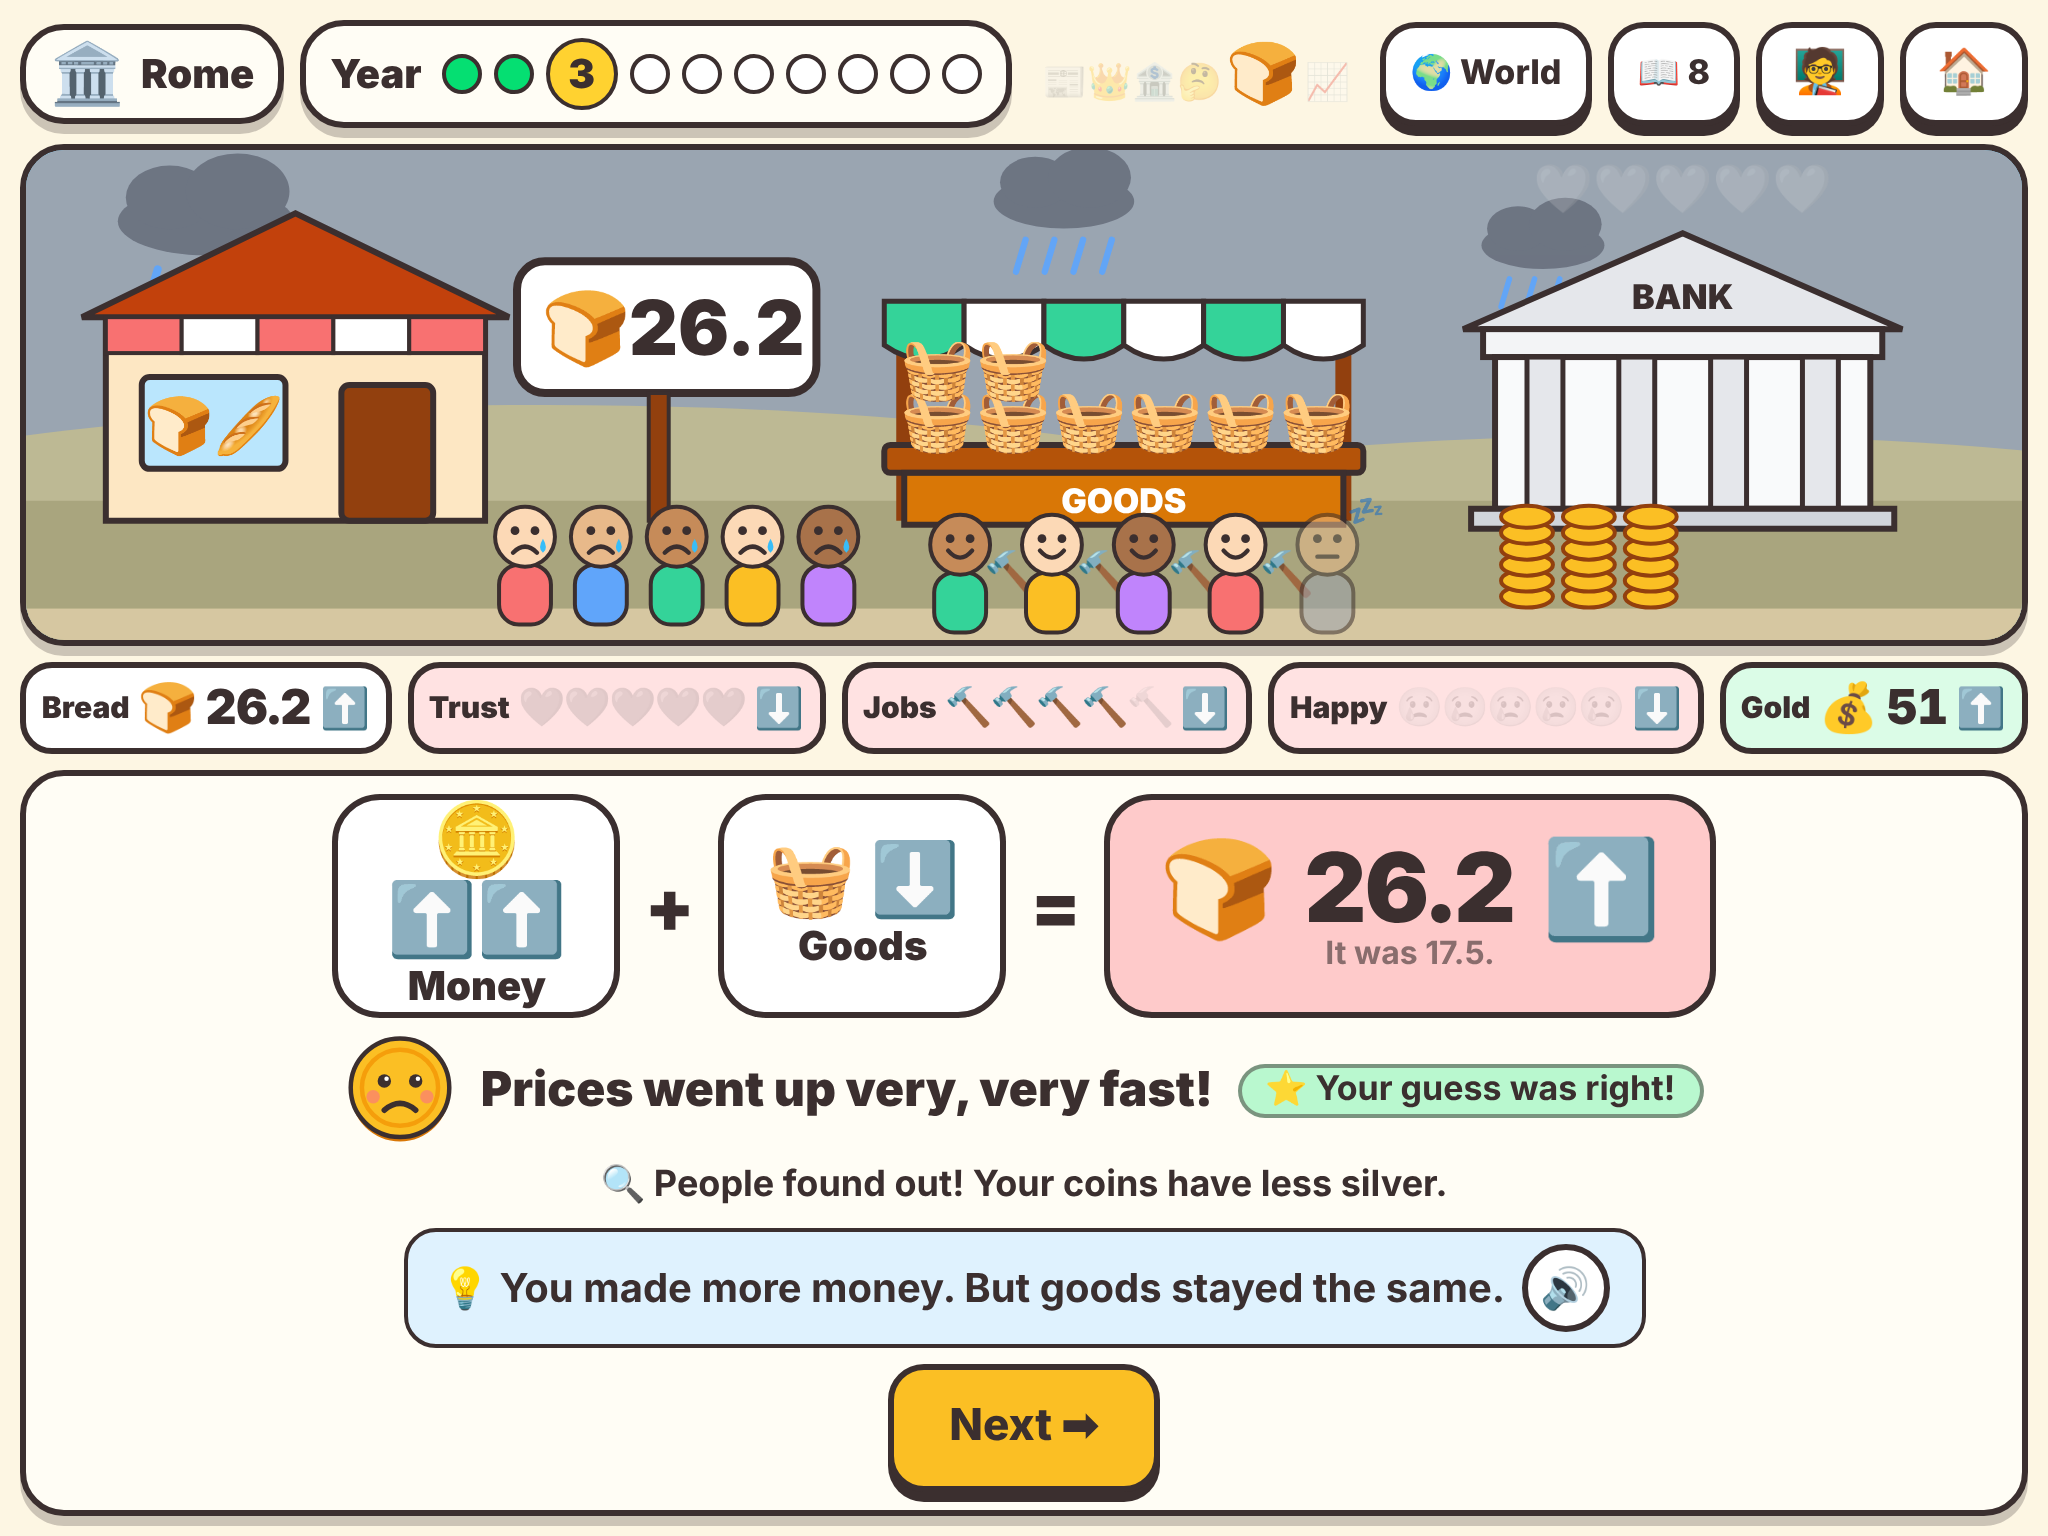
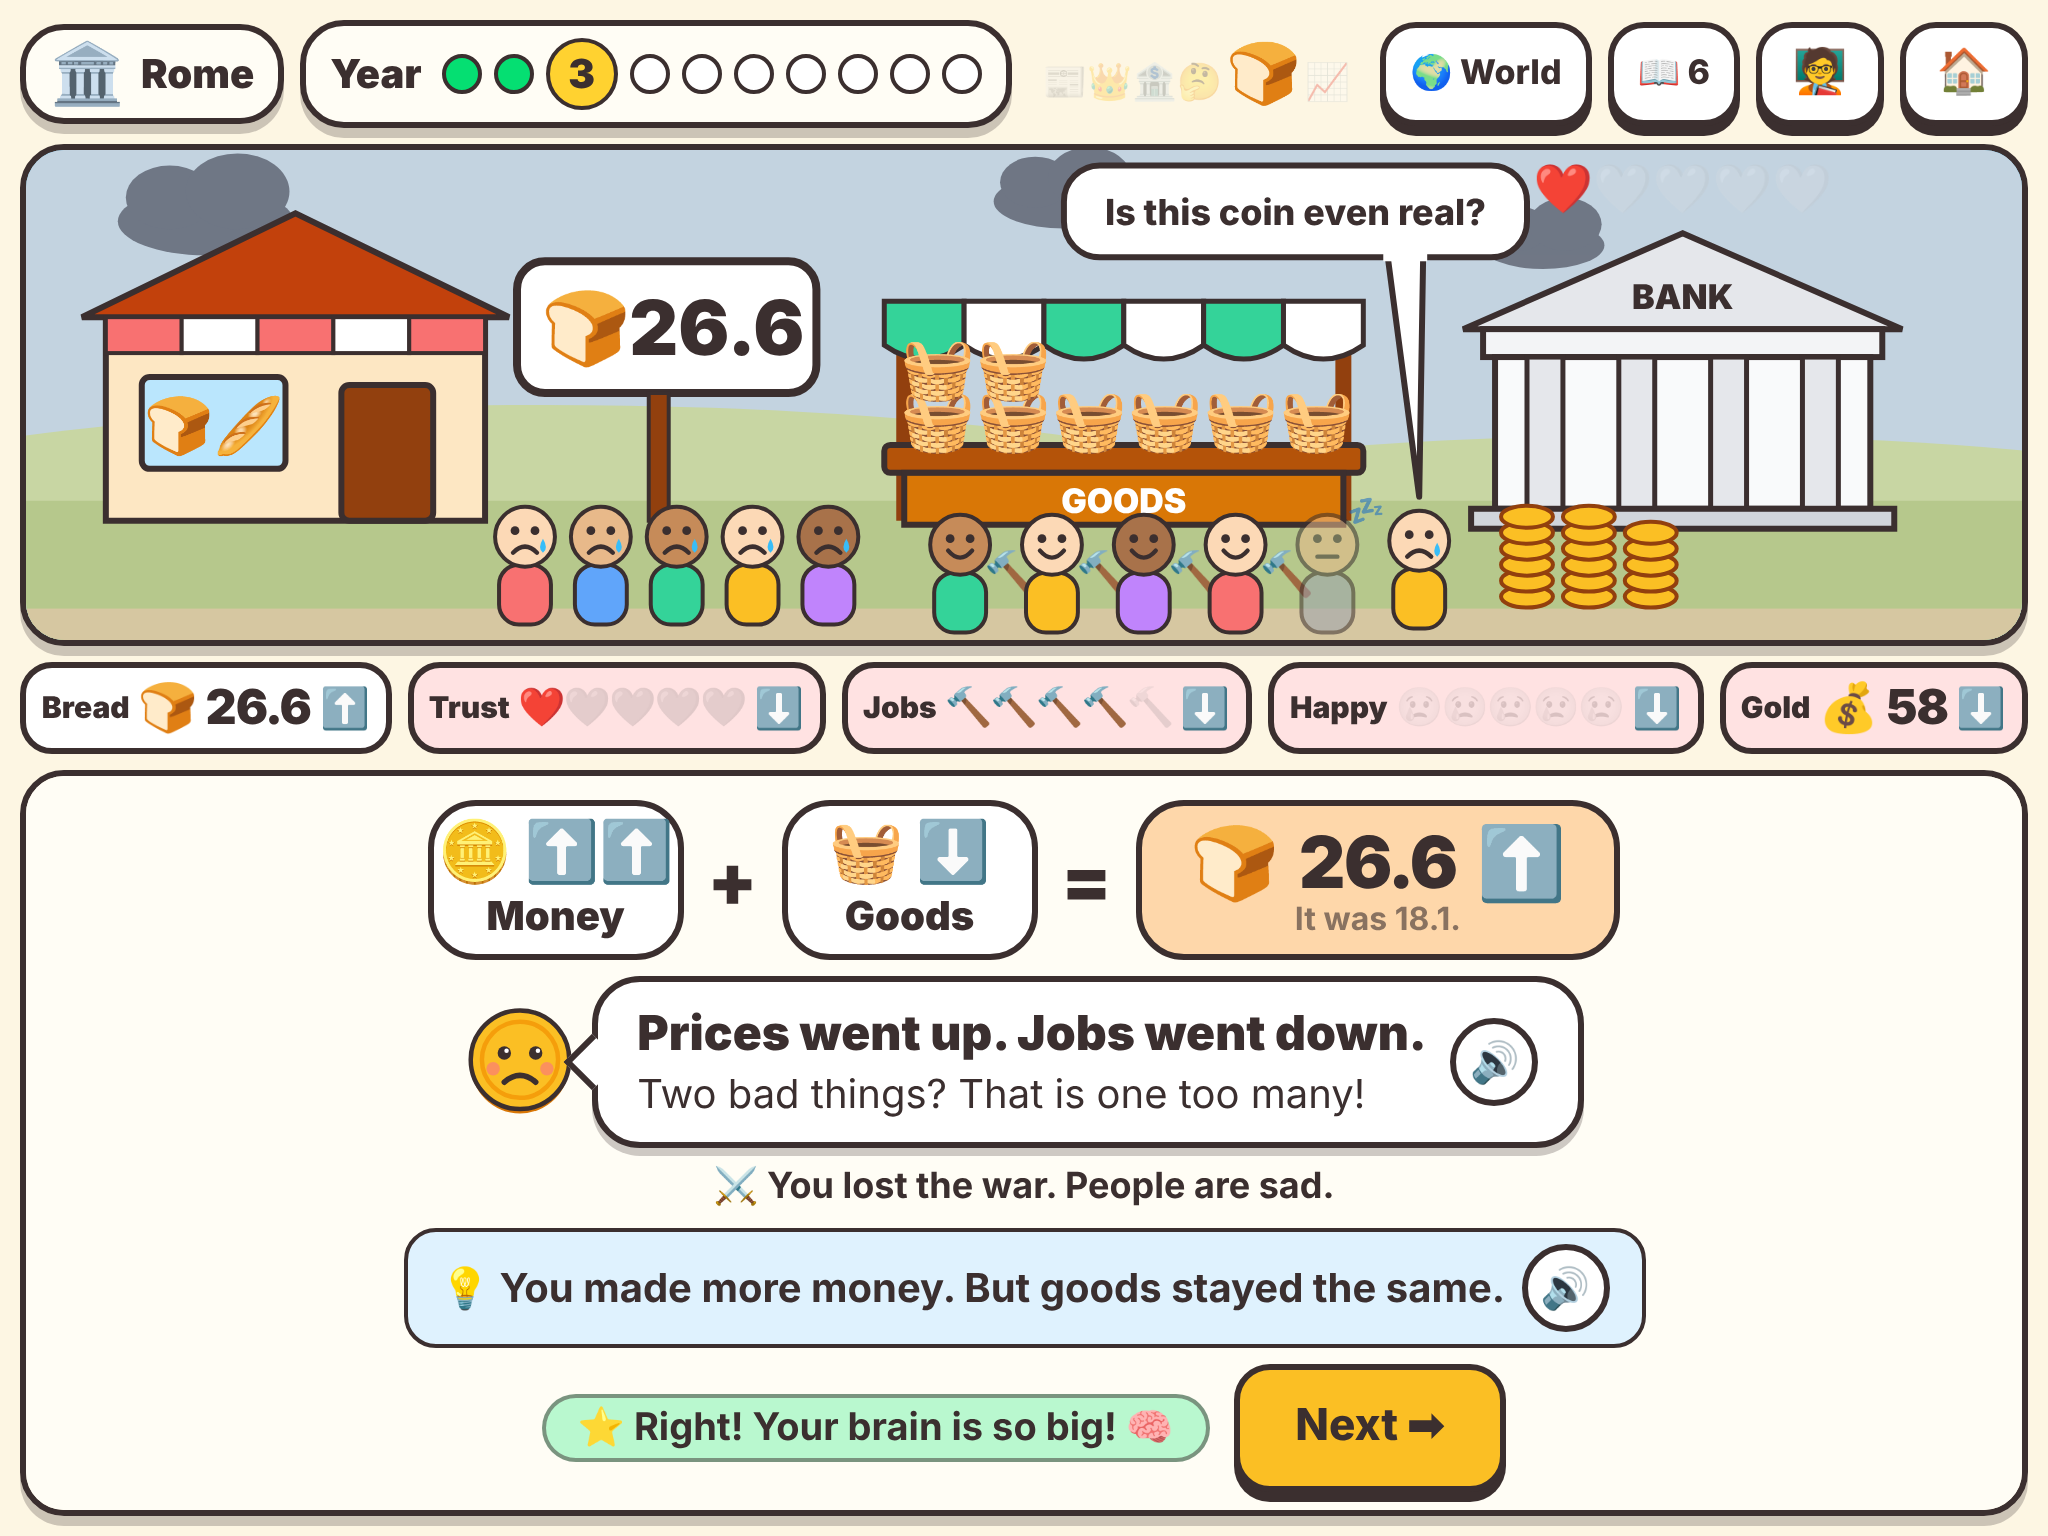
Add light humor: Arti jokes, funny news lines, talking townspeople
Arti now reacts to each year's result and to the player's guess, adds a
funny line to every news card, says hello on the title screen and gives
a last word on the end screen. A townsperson says something silly that
matches how the town is doing. All jokes live in src/data/jokes.json and
follow the 10-word rule (checked by the tests).

Claude-Session: https://claude.ai/code/session_017KT7covacMar6xfUcdP8S5

diff --git a/src/screens/Result.tsx b/src/screens/Result.tsx
@@ -1,5 +1,6 @@
 import { useEffect, useState } from 'react';
-import { Arti } from '../components/Arti';
+import { Bubble } from '../components/Arti';
+import { JOKES, pickLine } from '../lib/fun';
 import { SpeakButton } from '../components/SpeakButton';
 import { NOTE, PHENOMENON, REASON } from '../lib/text';
 import { useGame } from '../store/game';
@@ -32,36 +33,44 @@ export function Result() {
   const p = PHENOMENON[result.phenomenon];
   const dir = s.breadPrice > prev.breadPrice + 0.05 ? '⬆' : s.breadPrice < prev.breadPrice - 0.05 ? '⬇' : '➡';
   const reason = REASON[result.reason];
+  const seed = game!.world.options.seed;
+  const quip = pickLine(JOKES.result[result.phenomenon], seed, last.year, 'result');
+  const guessLine = pickLine(last.correct ? JOKES.guessRight : JOKES.guessWrong, seed, last.year, 'guess');
   const trend = (g: number) => (g > 0.15 ? '⬆⬆' : g > 0.01 ? '⬆' : g < -0.15 ? '⬇⬇' : g < -0.01 ? '⬇' : '➡');
-  const tile = 'flex h-28 w-36 flex-col items-center justify-center rounded-3xl border-[3px] border-ink bg-white';
+  const tile = 'flex h-20 w-32 flex-col items-center justify-center rounded-3xl border-[3px] border-ink bg-white';
 
   return (
-    <div className="flex h-full flex-col items-center justify-center gap-2 text-center">
+    <div className="flex min-h-full flex-col items-center justify-center gap-2 text-center">
       {/* The whole lesson as one picture: money and goods make the bread price. */}
       <div className="flex items-center gap-3 text-4xl font-black">
-        <div className={tile}><div className="text-4xl">🪙 {trend(result.moneyGrowth)}</div><div className="text-xl">Money</div></div>
+        <div className={tile}><div className="text-3xl">🪙 {trend(result.moneyGrowth)}</div><div className="text-xl">Money</div></div>
         <span>+</span>
-        <div className={tile}><div className="text-4xl">🧺 {trend(result.goodsGrowth)}</div><div className="text-xl">Goods</div></div>
+        <div className={tile}><div className="text-3xl">🧺 {trend(result.goodsGrowth)}</div><div className="text-xl">Goods</div></div>
         <span>=</span>
-        <div className="flex h-28 flex-col items-center justify-center rounded-3xl border-[3px] border-ink px-6" style={{ background: p.color }}>
-          <div className="text-5xl tabular-nums">🍞 {fmt(price)} {dir}</div>
+        <div className="flex h-20 flex-col items-center justify-center rounded-3xl border-[3px] border-ink px-6" style={{ background: p.color }}>
+          <div className="text-4xl tabular-nums">🍞 {fmt(price)} {dir}</div>
           <div className="text-[16px] font-bold text-ink/60">It was {fmt(prev.breadPrice)}.</div>
         </div>
       </div>
-      <div className="flex items-center gap-3">
-        <Arti size={56} sad={result.phenomenon !== 'stable' && result.phenomenon !== 'mild'} />
-        <div className="text-2xl font-black">{p.title}</div>
-        <div className={`rounded-full border-2 border-ink/50 px-3 text-[17px] font-bold ${last.correct ? 'bg-green-200' : 'bg-white'}`}>
-          {last.correct ? '⭐ Your guess was right!' : 'Good try!'}
+      <Bubble size={56} sad={result.phenomenon !== 'stable' && result.phenomenon !== 'mild'}>
+        <div className="flex items-center gap-3 text-left">
+          <div>
+            <div className="text-2xl font-black">{p.title}</div>
+            <div className="text-xl">{quip}</div>
+          </div>
+          <SpeakButton small text={`${p.title} ${quip}`} />
         </div>
-      </div>
+      </Bubble>
       {result.notes.filter((n) => NOTE[n]).slice(0, 1).map((n) => <div key={n} className="text-[18px] font-bold">{NOTE[n]}</div>)}
       {why && (
         <div className="pop flex items-center gap-2 rounded-2xl border-2 border-ink bg-sky-100 px-4 py-1.5 text-xl font-bold">
           💡 {reason} <SpeakButton small text={reason} />
         </div>
       )}
-      <div className="flex gap-3">
+      <div className="flex flex-wrap items-center justify-center gap-3">
+        <div className={`rounded-full border-2 border-ink/50 px-4 py-0.5 text-[19px] font-bold ${last.correct ? 'bg-green-200' : 'bg-white'}`}>
+          {guessLine}
+        </div>
         {!why && <button className="btn btn-blue" onClick={() => setWhy(true)}>Why? 💡</button>}
         <button className="btn" onClick={toReport}>Next ➡</button>
       </div>

diff --git a/src/components/TownScene.tsx b/src/components/TownScene.tsx
@@ -1,4 +1,5 @@
 import type { NationState } from '../engine/types';
+import { JOKES, pickLine } from '../lib/fun';
 
 const clamp = (v: number, lo: number, hi: number) => Math.min(hi, Math.max(lo, Math.round(v)));
 const fmt = (n: number) => (n >= 100 ? Math.round(n).toString() : n.toFixed(1));
@@ -26,7 +27,7 @@ function Person({ x, y, i, face, tool, idle }: { x: number; y: number; i: number
  * bread sign = price, baskets = goods, coin stacks = money, hearts = trust,
  * faces = happy, hammers = jobs, weather = how the land is doing.
  */
-export function TownScene({ s }: { s: NationState }) {
+export function TownScene({ s, year = 0 }: { s: NationState; year?: number }) {
   const mood = (s.trust + s.happiness + s.jobs) / 3;
   const level = mood >= 72 ? 3 : mood >= 50 ? 2 : mood >= 30 ? 1 : 0;
   const sky = ['#9aa5b1', '#c3d3e0', '#a9def7', '#86d3f8'][level];
@@ -37,6 +38,11 @@ export function TownScene({ s }: { s: NationState }) {
   const hearts = clamp(s.trust / 20, 0, 5);
   const coins = clamp(s.money / 12, 1, 36);
   const baskets = clamp(s.goods / 12, 1, 12);
+  const T = JOKES.town;
+  const mood2 = s.breadPrice >= 30 ? T.veryHigh : s.trust <= 25 ? T.noTrust : s.breadPrice >= 15 ? T.high
+    : s.jobs < 50 ? T.noJobs : s.breadPrice < 8 ? T.low : s.happiness < 35 ? T.sad : T.happy;
+  const say = pickLine(mood2, s.id, year, 'town');
+  const sayFace = mood2 === T.happy ? 'happy' : mood2 === T.high || mood2 === T.veryHigh ? 'flat' : 'sad';
   const face = (i: number) => (i < happy ? 'happy' : s.happiness < 35 ? 'sad' : 'flat') as 'happy' | 'flat' | 'sad';
 
   return (
@@ -105,6 +111,14 @@ export function TownScene({ s }: { s: NationState }) {
       </g>
 
       {/* People: faces show happy, hammers show jobs */}
+      {s.breadPrice >= 30 && <text x={150} y={240} fontSize={34}>🛒💰</text>}
+      <Person x={698} y={198} i={3} face={sayFace} />
+      <g>
+        <rect x={520} y={10} width={232} height={46} rx={18} fill="#fff" stroke="#3b2f2f" strokeWidth={3} />
+        <path d="M682 54 L700 54 L698 176 Z" fill="#fff" stroke="#3b2f2f" strokeWidth={3} strokeLinejoin="round" />
+        <rect x={680} y={50} width={22} height={8} fill="#fff" />
+        <text x={636} y={40} textAnchor="middle" fontSize={18} fontWeight={800} fill="#3b2f2f">{say}</text>
+      </g>
       {[0, 1, 2, 3, 4].map((i) => <Person key={`h${i}`} x={250 + i * 38} y={196} i={i} face={face(i)} />)}
       {[0, 1, 2, 3, 4].map((i) => <Person key={`w${i}`} x={468 + i * 46} y={200} i={i + 2} face={i < jobs ? 'happy' : 'flat'} tool={i < jobs} idle={i >= jobs} />)}
     </svg>

diff --git a/src/screens/Game.tsx b/src/screens/Game.tsx
@@ -10,6 +10,7 @@ import type { GuessDir } from '../engine/detect';
 import type { Role } from '../engine/types';
 import { speak } from '../lib/speech';
 import { GUESS, STEPS } from '../lib/text';
+import { JOKES } from '../lib/fun';
 import { useGame } from '../store/game';
 import { Report } from './Report';
 import { Result } from './Result';
@@ -61,7 +62,7 @@ export function GameShell() {
       <div className="panel aspect-[1000/250] max-h-[42%] w-full shrink-0 overflow-hidden !bg-[#8fd3f4]">
         {showMap
           ? <WorldMap crop medals className="h-full w-full" states={world.nations} playerId={world.playerId} />
-          : <TownScene s={me} />}
+          : <TownScene s={me} year={world.year} />}
       </div>
       <StatStrip s={me} prev={game.last?.prev} />
       <section className="panel min-h-0 flex-1 overflow-auto p-3">
@@ -113,6 +114,7 @@ function News() {
   const world = game!.world;
   const event = eventById(world.schedules[world.playerId][world.year - 1])!;
   const def = nationDef(world.playerId);
+  const joke = (JOKES.news as Record<string, string>)[event.id];
   const quiz = game!.quizWord;
   const waiting = game!.wordQueue.length > 0;
   useEffect(() => {
@@ -130,8 +132,11 @@ function News() {
         </div>
         <Bubble>
           <div className="flex items-center gap-3">
-            <div className="text-3xl font-black">{event.text}</div>
-            <SpeakButton text={event.text} />
+            <div>
+              <div className="text-3xl font-black">{event.text}</div>
+              {joke && <div className="mt-1 text-xl text-ink/75">{joke}</div>}
+            </div>
+            <SpeakButton text={joke ? `${event.text} ${joke}` : event.text} />
           </div>
         </Bubble>
         <button className="btn self-center" onClick={() => go('president')}>OK ➡</button>

diff --git a/src/screens/Setup.tsx b/src/screens/Setup.tsx
@@ -1,6 +1,8 @@
 import { useState } from 'react';
 import { NATIONS, nationDef } from '../data';
+import { Bubble } from '../components/Arti';
 import { SpeakButton } from '../components/SpeakButton';
+import { JOKES } from '../lib/fun';
 import { WorldMap } from '../components/WorldMap';
 import type { NationId } from '../engine/types';
 import { useGame } from '../store/game';
@@ -9,12 +11,17 @@ export function Title() {
   const { go, game, setOverlay, settings } = useGame();
   return (
     <div className="relative flex h-full flex-col items-center justify-center gap-5 overflow-hidden p-6">
-      <WorldMap className="pointer-events-none absolute inset-0 h-full w-full opacity-30" />
+      <WorldMap className="pointer-events-none absolute inset-0 h-full w-full opacity-15" />
       <div className="relative text-center">
         <div className="text-7xl">🪙</div>
         <h1 className="text-6xl font-black tracking-tight">Currency Wars</h1>
         <div className="text-3xl font-extrabold text-amber-700">Arti-Coin</div>
         <p className="mt-2 text-2xl">Lead a land. Take care of its money.</p>
+      </div>
+      <div className="relative">
+        <Bubble size={64}>
+          <div className="flex items-center gap-2 text-xl font-bold">{JOKES.hello} <SpeakButton small text={JOKES.hello} /></div>
+        </Bubble>
       </div>
       <div className="relative flex flex-col items-stretch gap-3">
         {game && <button className="btn btn-green" onClick={() => go(game.world.year > game.world.options.turns ? 'end' : 'news')}>▶ Keep Playing</button>}

diff --git a/src/screens/End.tsx b/src/screens/End.tsx
@@ -2,6 +2,8 @@ import { WORDS, cardById, eventById, nationDef } from '../data';
 import { LineChart } from '../components/LineChart';
 import { score, tier } from '../engine/detect';
 import { GUESS, TIER } from '../lib/text';
+import { JOKES } from '../lib/fun';
+import { Arti } from '../components/Arti';
 import { useGame, type Game } from '../store/game';
 import { Ranking } from './Report';
 
@@ -35,7 +37,8 @@ export function End() {
   if (!game) return null;
   const me = game.world.nations[game.world.playerId];
   const def = nationDef(me.id);
-  const t = TIER[tier(score(me))];
+  const tierId = tier(score(me));
+  const t = TIER[tierId];
   const right = game.log.filter((r) => r.correct).length;
   const big = [...game.log].sort((a, b) => Math.abs(b.inflation) - Math.abs(a.inflation))[0];
   const bigCard = big && (cardById(big.bank) ?? cardById(big.president));
@@ -47,6 +50,7 @@ export function End() {
           <div className="text-[17px] font-bold">{def.icon} {def.name} · {game.team} · World code {game.world.options.seed}</div>
           <h1 className="text-5xl font-black">{t.title}</h1>
           <p className="text-2xl font-bold">{t.text}</p>
+          <p className="mt-1 flex items-center gap-2 text-xl"><Arti size={40} sad={tierId === 'fallen'} /> {JOKES.end[tierId]}</p>
         </div>
         <div className="text-right text-xl font-bold">
           <div>⭐ Right guesses: {right} of {game.log.length}</div>

diff --git a/tests/engine.test.ts b/tests/engine.test.ts
@@ -1,5 +1,6 @@
 import { describe, expect, it } from 'vitest';
 import { CARDS, EVENTS, NATIONS, cardById, nationDef } from '../src/data';
+import jokes from '../src/data/jokes.json';
 import { detectPhenomenon, priceDirection } from '../src/engine/detect';
 import { createWorld, dealHand } from '../src/engine/game';
 import { makeRng } from '../src/engine/rng';
@@ -49,7 +50,8 @@ describe('engine', () => {
   });
 
   it('player-facing sentences have 10 words or fewer', () => {
-    const texts = [...CARDS.flatMap((c) => [c.text, c.hint]), ...EVENTS.map((e) => e.text)];
+    const flat = (v: unknown): string[] => (typeof v === 'string' ? [v] : Object.values(v as object).flatMap(flat));
+    const texts = [...CARDS.flatMap((c) => [c.text, c.hint]), ...EVENTS.map((e) => e.text), ...flat(jokes)];
     for (const t of texts) {
       for (const sentence of t.split(/[.!?]+/).filter((x) => x.trim())) {
         expect(sentence.trim().split(/\s+/).length, sentence).toBeLessThanOrEqual(10);

diff --git a/src/lib/fun.ts b/src/lib/fun.ts
@@ -1,0 +1,9 @@
+import jokes from '../data/jokes.json';
+import { mixSeed } from '../engine/rng';
+
+export const JOKES = jokes;
+
+/** Pick one funny line. The same game and year always get the same line. */
+export function pickLine(list: string[], ...key: (string | number)[]): string {
+  return list[mixSeed(...key) % list.length];
+}
